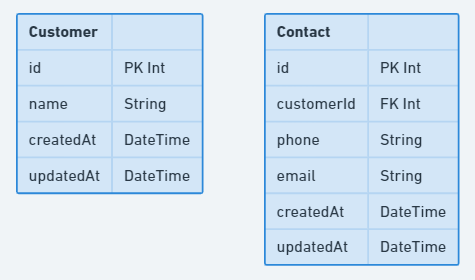
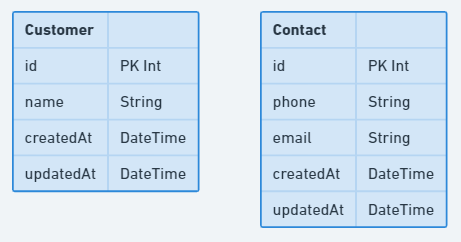
Add requirement 2

Changed region(s): [[0.5466, 0.0289, 0.9718, 0.9545], [0.0, 0.0289, 0.4555, 0.8099]]

diff --git a/requirement-2.md b/requirement-2.md
@@ -1,0 +1,9 @@
+# Customer & Contact relation
+
+![](./assets/CustomerContact_Relation.PNG)
+
+## Instructions
+
+- Add the required relation between `Customer` and `Contact`. Note the additional property added to the `Contact` model.
+
+- [Use this documentation](https://www.prisma.io/docs/concepts/components/prisma-schema/relations/one-to-one-relations) as a reference.
